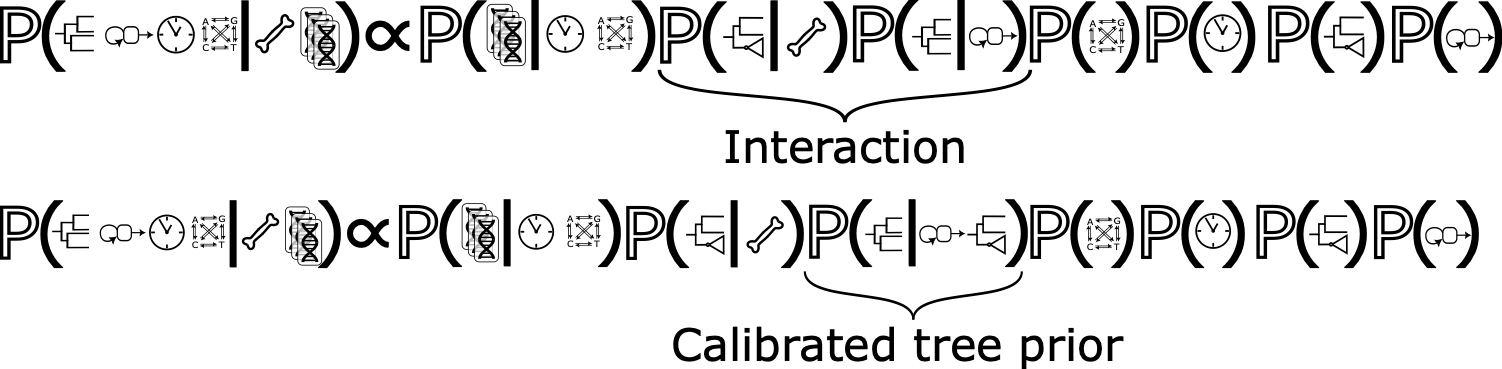
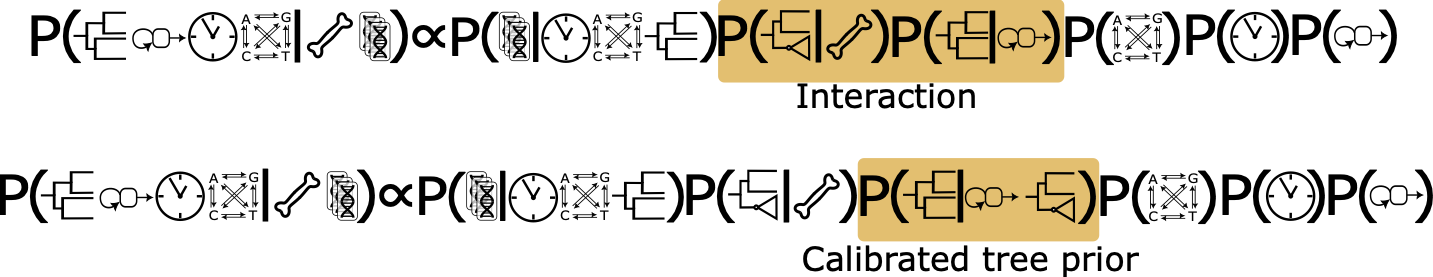
Made change times older than the tree not affect the likelihood     - if a change time is older than the tree then that parameter value won't affect the likelihood at all

diff --git a/docs/index.html b/docs/index.html
@@ -33,7 +33,7 @@
           <h2>Calibrated Tree Priors</h2>
           Simply multiplying the calibration priors with tree prior with results in a marginal prior over the TMRCA of the calibration clades
           that is different from the one the user specifies. This can be problematic because now the prior used for calibrating the molecular clock into calendar time is not
-          the prior supported by prior evidence. To deal with this, we introduce a "Calibrated Tree Prior". This is the tree prior conditioned on calibration clades being monophyletic and having a specified TMRCA,
+          the prior supported by prior evidence. To deal with this, we introduce a <strong>Calibrated Tree Prior</strong>. This is the tree prior conditioned on calibration clades being monophyletic and having a specified TMRCA,
           calibration priors are then priors over these TMRCAs. This is a mathematically consistent factorisation of the priors
           and preserves the distribution specified by the user.
           <figure class="screenshot">
@@ -51,6 +51,12 @@
         <li>Individuals die at some rate $$\mu(x,t)$$ that depends on the age of the individual $$x$$ and the time $$t$$.</li>
         <li>Individuals give birth to new individuals at a rate $$\lambda(t)$$ depending only on time.</li>
       </ul>
+          <figure class="screenshot">
+              <img src="assets/screenshots/cpp.png" alt="CPP Model">
+              <figcaption>The left shows the complete tree where individuals die at a rate that depends on time and the age
+                  of the individual. Along each lifetime, new individuals arise at a rate that depends only on time.
+                  The right shows the reconstructed tree relating individuals that are alive at the present.</figcaption>
+          </figure>
       <p>
         The Calibrated CPP is a <strong>calibrated tree prior</strong> built on the CPP: it is used for molecular clock
         dating by conditioning on the existence and ages of the most recent common ancestors
@@ -83,6 +89,11 @@
         <li><strong>Values</strong> — the rate in each epoch, ordered from the root towards the present.</li>
         <li><strong>Change times</strong> — the epoch boundaries. They can be fixed by the user or estimated, and given as ages before the present, as forward times, or as fractions of the tree's total age. If omitted, the epochs are spread evenly over the age of the tree.</li>
       </ul>
+          <figure class="screenshot">
+              <img src="assets/screenshots/skylineparam.png"/>
+              <figcaption>Skyline values are ordered from root to tip (past to present). Change times can be specified either
+              as ages (time before the present) or as times since the origin/root of the tree.</figcaption>
+          </figure>
       <p>
         The process is anchored in time in one of two ways: by conditioning on the tree's
         <strong>root height</strong>, or by giving an explicit <strong>origin</strong> time (the
@@ -188,7 +199,7 @@
           This can be acheived with the <code>CalibratedCPPTreeInitialiser</code> in an <code>init</code> element after the
           <code>state</code> element where the tree is defined in the usual way. The following example assumes there is
           an <code>alignment</code> element with <code>id="alignment"</code>.
-          <pre><code>&lt;state&gt;
+          <pre><code>&lt;state id="state" spec="State" storeEvery="5000"&gt;
     &lt;tree id="tree" spec="beast.base.evolution.tree.Tree" name="stateNode"&gt;
         &lt;taxonset id="taxa" spec="TaxonSet"&gt;
             &lt;alignment idref="alignment"/&gt;
@@ -225,21 +236,18 @@
         Conditioned on the root, parameterised by a two-epoch diversification rate and a
         constant turnover:
       </p>
-      <pre><code>&lt;!-- rate values: a two-epoch diversification rate (vector), a constant turnover, and rho --&gt;
-&lt;stateNode id="diversificationValues" spec="beast.base.spec.inference.parameter.RealVectorParam"
+      <pre><code>&lt;state id="state" spec="State" storeEvery="5000"&gt;
+    &lt;!-- rate values: a two-epoch diversification rate (vector), a constant turnover --&gt;
+    &lt;stateNode id="diversificationValues" spec="beast.base.spec.inference.parameter.RealVectorParam"
            domain="PositiveReal" dimension="2"&gt;0.2 0.1&lt;/stateNode&gt;
-&lt;stateNode id="changeTimes" spec="beast.base.spec.inference.parameter.RealVectorParam"
-           domain="NonNegativeReal" dimension="1"&gt;30.0&lt;/stateNode&gt;
-&lt;stateNode id="turnoverValue" spec="beast.base.spec.inference.parameter.RealScalarParam"
+    &lt;stateNode id="turnoverValue" spec="beast.base.spec.inference.parameter.RealScalarParam"
            domain="UnitInterval" value="0.5"/&gt;
-&lt;stateNode id="rho" spec="beast.base.spec.inference.parameter.RealScalarParam"
-           domain="UnitInterval" value="1.0"/&gt;
-
+&lt;/state&gt;
 &lt;distribution id="treePrior" spec="calibratedcpp.CalibratedBirthDeathSkylineModel"
-              tree="@tree" conditionOnRoot="true" rho="@rho"&gt;
+              tree="@tree" conditionOnRoot="true" rho="0.1"&gt;
     &lt;!-- two-epoch diversification rate; one change time (as an age) splits it in two --&gt;
     &lt;diversificationRate spec="calibratedcpp.SkylineParameter"
-        values="@diversificationValues" changeTimes="@changeTimes" timesAreAges="true"/&gt;
+        values="@diversificationValues" changeTimes="30.0" timesAreAges="true"/&gt;
     &lt;!-- constant turnover: a single value, no change times --&gt;
     &lt;turnover spec="calibratedcpp.SkylineParameter" values="@turnoverValue"/&gt;
 &lt;/distribution&gt;</code></pre>
@@ -264,17 +272,16 @@
           <tr><td><code>rho</code></td><td>RealScalar</td><td>Sampling probability for each extant individual</td></tr>
         </tbody>
       </table>
-      <pre><code>&lt;stateNode id="birthRate" spec="beast.base.spec.inference.parameter.RealScalarParam"
+      <pre><code>&lt;state id="state" spec="State" storeEvery="5000"&gt;
+    &lt;stateNode id="birthRate" spec="beast.base.spec.inference.parameter.RealScalarParam"
            domain="PositiveReal" value="1.0"/&gt;
-&lt;stateNode id="rho" spec="beast.base.spec.inference.parameter.RealScalarParam"
-           domain="UnitInterval" value="1.0"/&gt;
-&lt;stateNode id="lifetimeShape" spec="beast.base.spec.inference.parameter.RealScalarParam"
+    &lt;stateNode id="lifetimeShape" spec="beast.base.spec.inference.parameter.RealScalarParam"
            domain="PositiveReal" value="2.0"/&gt;
-&lt;stateNode id="lifetimeScale" spec="beast.base.spec.inference.parameter.RealScalarParam"
+    &lt;stateNode id="lifetimeScale" spec="beast.base.spec.inference.parameter.RealScalarParam"
            domain="PositiveReal" value="1.5"/&gt;
-
+&lt;/state&gt;
 &lt;distribution id="treePrior" spec="calibratedcpp.CalibratedAgeDependentBirthDeathModel"
-              tree="@tree" conditionOnRoot="true" birthRate="@birthRate" rho="@rho"&gt;
+              tree="@tree" conditionOnRoot="true" birthRate="@birthRate" rho="0.1"&gt;
     &lt;!-- Gamma lifetimes (shape alpha, scale theta); an integer shape gives the fast Erlang case --&gt;
     &lt;lifetimeDistribution id="lifetime" spec="beast.base.spec.inference.distribution.Gamma"&gt;
         &lt;alpha idref="lifetimeShape"/&gt;
@@ -433,7 +440,7 @@
       </p>
       <figure class="screenshot">
         <img src="assets/screenshots/beauti-skylineparam.png" alt="BEAUti setting skyline parameter">
-        <figcaption>Setting diversification rate change time to 66mya at the time of the K-Pg mass extinction.</figcaption>
+        <figcaption>Setting diversification rate change time to 66 Ma at the time of the K-Pg mass extinction.</figcaption>
       </figure>
 
       <h3>Conditioning</h3>

diff --git a/calibratedcpp-beast/src/main/java/calibratedcpp/CalibratedBirthDeathSkylineModel.java b/calibratedcpp-beast/src/main/java/calibratedcpp/CalibratedBirthDeathSkylineModel.java
@@ -113,12 +113,16 @@ public class CalibratedBirthDeathSkylineModel extends CalibratedCoalescentPointP
         List<Double> divTimes = processSafe(diversificationRateInput, maxT);
         List<Double> tTimes = processSafe(turnoverInput, maxT);
 
-        // 2. Create Master Timeline (Union of all times)
+        // 2. Create Master Timeline (Union of all times).
+        // Only cuts falling strictly inside (0, maxT) become integration boundaries: a cut outside
+        // that range bounds an epoch that lies wholly outside the process and so contributes
+        // nothing. The per-parameter lists above deliberately retain those out-of-range cuts, since
+        // getVal() needs the full list to keep values[0] pinned to the root epoch.
         SortedSet<Double> timesSet = new TreeSet<>();
         timesSet.add(0.0);
-        timesSet.addAll(bTimes); timesSet.addAll(dTimes);
-        timesSet.addAll(rTimes); timesSet.addAll(divTimes);
-        timesSet.addAll(tTimes);
+        for (List<Double> cuts : List.of(bTimes, dTimes, rTimes, divTimes, tTimes))
+            for (double t : cuts)
+                if (t > 1e-10 && t < maxT - 1e-10) timesSet.add(t);
 
         intervalStartTimes = timesSet.stream().mapToDouble(d -> d).toArray();
         int n = intervalStartTimes.length;
@@ -182,10 +186,14 @@ public class CalibratedBirthDeathSkylineModel extends CalibratedCoalescentPointP
 
         if (timeP != null) {
             // --- Explicit Change Times ---
-            double[] vals = new double[timeP.size()];
-            for (int i = 0; i < timeP.size(); i++) vals[i] = (Double) timeP.get(i);
-            Arrays.sort(vals);
-            for (double v : vals) {
+            // No sorting: SkylineParameter.initAndValidate() requires changeTimes to be strictly
+            // increasing, and each conversion below is monotone, so the resulting ages are already
+            // ordered — ascending when reverse=TRUE, descending when reverse=FALSE (both from-root
+            // conversions negate v), which the single reverse() below corrects. Sorting instead
+            // would silently reinterpret an out-of-order parameter rather than letting it error.
+            double[] rawTimes = new double[timeP.size()];
+            for (int i = 0; i < timeP.size(); i++) rawTimes[i] = (Double) timeP.get(i);
+            for (double v : rawTimes) {
                 double tAge;
                 if (relative) {
                     // relative [0,1]
@@ -199,8 +207,16 @@ public class CalibratedBirthDeathSkylineModel extends CalibratedCoalescentPointP
                     tAge = reverse ? v : (maxTime - v);
                 }
 
-                if (tAge > 1e-10 && tAge < maxTime - 1e-10) times.add(tAge);
+                // Out-of-range cuts are deliberately retained, so that this list always has
+                // exactly rateP.size()-1 entries and getVal()'s index flip stays exact. A cut
+                // older than the root (age > maxTime) sorts to the end and leaves values[0]
+                // unused; a cut younger than the present (age < 0) sorts to the front and leaves
+                // the last value unused. Either way the epoch lies wholly outside the process and
+                // correctly contributes nothing.
+                times.add(tAge);
             }
+            // From-root conversions negate v, so the ages came out descending.
+            if (!reverse) Collections.reverse(times);
         } else {
             // --- Implicit Equidistant Times ---
             // If explicit times are missing, we assume equidistant intervals over maxTime.
@@ -212,7 +228,6 @@ public class CalibratedBirthDeathSkylineModel extends CalibratedCoalescentPointP
                 }
             }
         }
-        Collections.sort(times);
         return times;
     }
 
@@ -240,6 +255,10 @@ public class CalibratedBirthDeathSkylineModel extends CalibratedCoalescentPointP
         //
         // So, if we are at intervalIndex 0 (Present), we need the LAST rate index.
         // If we are at intervalIndex Max (Root), we need the FIRST rate index.
+        //
+        // This flip is only exact while cuts.size() == p.size()-1, which is why processInput()
+        // retains out-of-range cuts rather than discarding them: dropping one would shift every
+        // epoch's rate, not just the out-of-range epoch's.
 
         int pIdx = p.size() - 1 - intervalIndex;
 

diff --git a/calibratedcpp-beast/src/main/java/calibratedcpp/SkylineParameter.java b/calibratedcpp-beast/src/main/java/calibratedcpp/SkylineParameter.java
@@ -45,6 +45,12 @@ public class SkylineParameter extends CalculationNode {
                 double time = (Double) times.get(i);
                 if (time < 0.0) throw new IllegalArgumentException("The time " + getID() + " must be a non-negative number.");
                 if (isRelative && time > 1.0) throw new IllegalArgumentException("When times are relative changeTimes (" + getID() + ") should be less than 1.");
+                // Strictly increasing is required: the model no longer sorts, so an out-of-order
+                // vector would otherwise be reinterpreted silently rather than reported. It is also
+                // the precondition of ChangeTimeOperator, which preserves the ordering it starts with.
+                if (i > 0 && time <= (Double) times.get(i - 1))
+                    throw new IllegalArgumentException("changeTimes of " + getID() + " must be strictly increasing, but entry "
+                            + i + " (" + time + ") is not greater than entry " + (i - 1) + " (" + times.get(i - 1) + ").");
             }
         }
     }